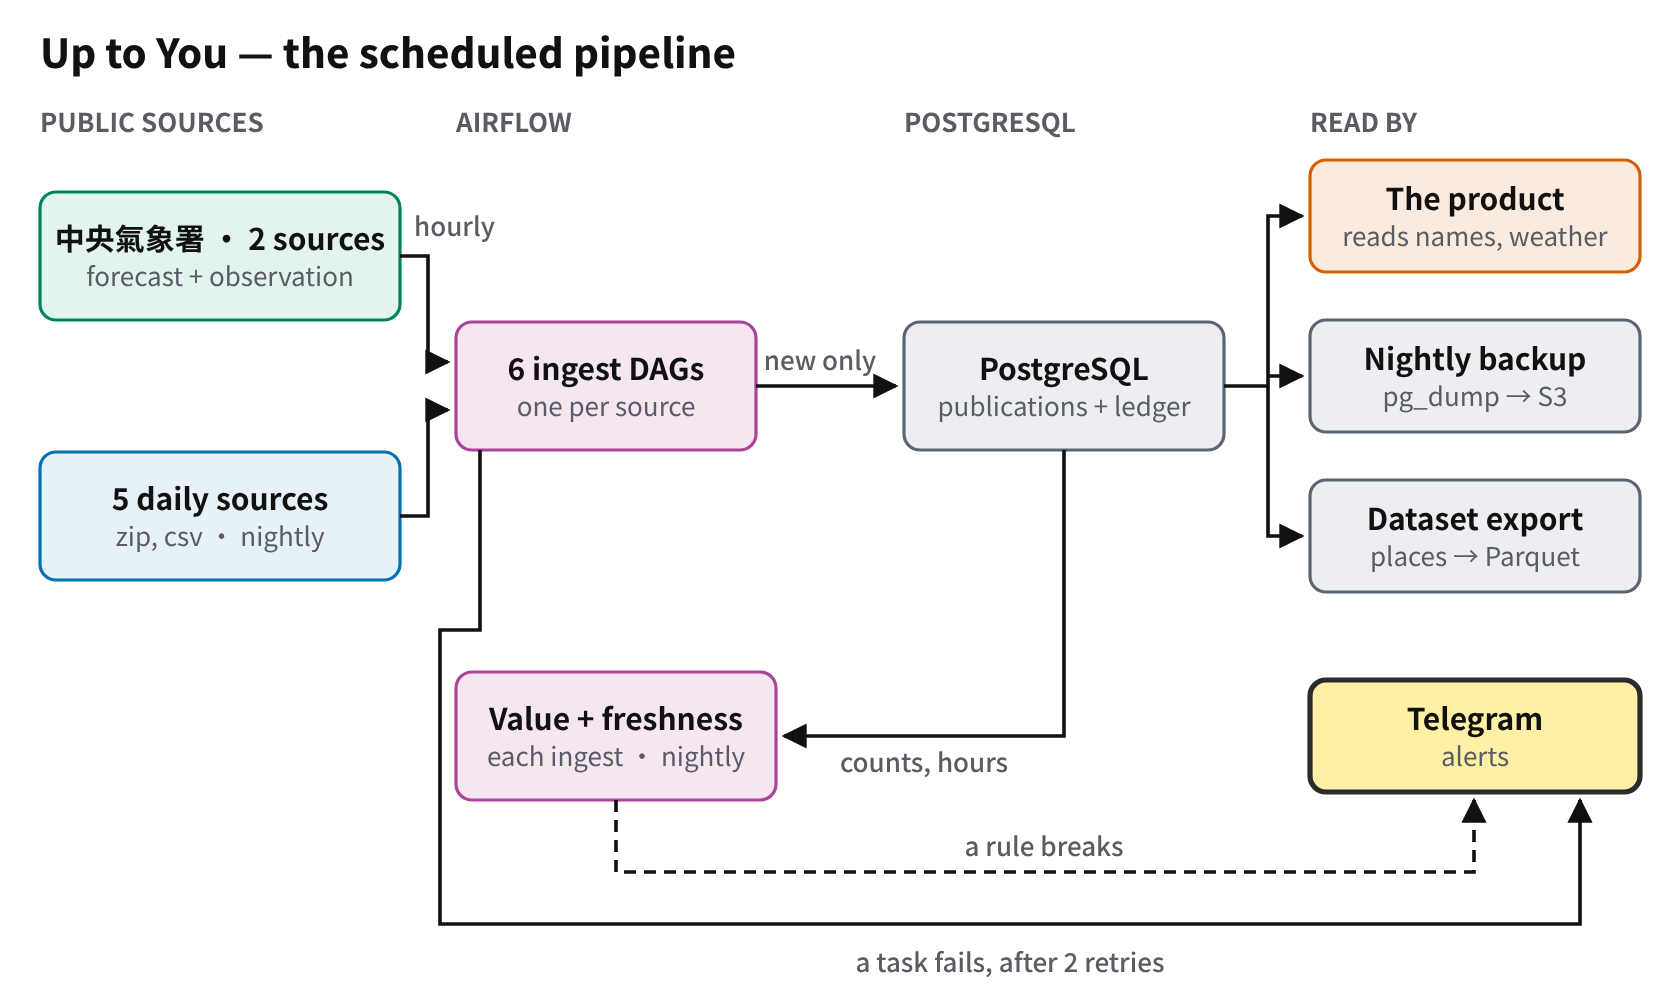
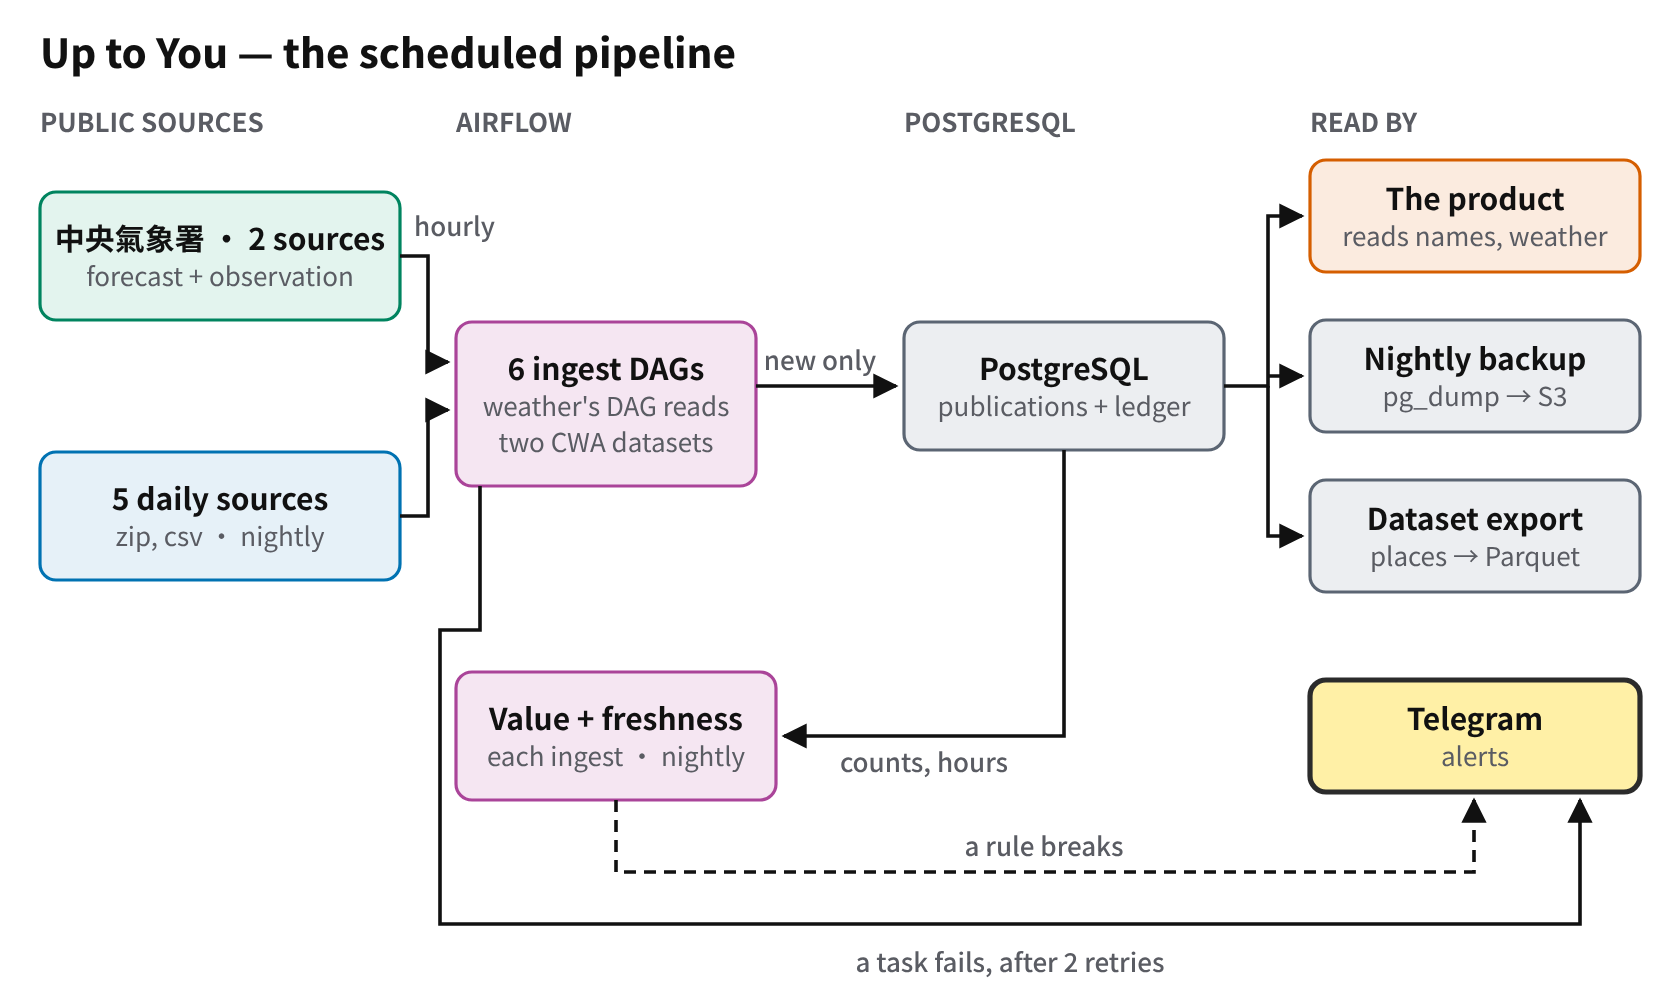
diagrams: the ingest box says the weather DAG reads two CWA datasets, so six DAGs and seven sources agree

Changed region(s): [[0.2476, 0.403, 0.4643, 0.496]]

diff --git a/docs/diagrams/draw.py b/docs/diagrams/draw.py
@@ -105,7 +105,14 @@ def box(x, y, w, h, label, caption=None, key=None):
     out = [f'<rect x="{x}" y="{y}" width="{w}" height="{h}" rx="{num("radius.box")}" fill="{tint}" '
            f'stroke="{border}" stroke-width="{width}"/>']
     cy = y + h / 2
-    if caption:
+    lines = caption.split("\n") if caption else []
+    if len(lines) > 1:
+        # A caption of several lines: the block is centred, one 18-unit step per line.
+        top = cy - 3 - 9 * (len(lines) - 1)
+        out.append(text(x + w / 2, top, label, TITLE, W_TITLE))
+        for i, ln in enumerate(lines):
+            out.append(text(x + w / 2, top + 18 * (i + 1), ln, BODY, W_BODY, MUTED))
+    elif caption:
         out.append(text(x + w / 2, cy - 3, label, TITLE, W_TITLE))
         out.append(text(x + w / 2, cy + 15, caption, BODY, W_BODY, MUTED))
     else:
@@ -156,7 +163,7 @@ def etl_flow():
         q.append(text(x, 66, label, BODY, W_TITLE, MUTED, "start"))
     q.append(box(20, 96, 180, 64, "中央氣象署 · 2 sources", "forecast + observation", "weather"))
     q.append(box(20, 226, 180, 64, "5 daily sources", "zip, csv · nightly", "public"))
-    q.append(box(228, 161, 150, 64, "6 ingest DAGs", "one per source", "pipeline"))
+    q.append(box(228, 161, 150, 82, "6 ingest DAGs", "weather's DAG reads\ntwo CWA datasets", "pipeline"))
     q.append(box(452, 161, 160, 64, "PostgreSQL", "publications + ledger", "stored"))
     q.append(box(228, 336, 160, 64, "Value + freshness", "each ingest · nightly", "pipeline"))
     q.append(box(655, 80, 165, 56, "The product", "reads names, weather", "product"))
@@ -172,7 +179,7 @@ def etl_flow():
     q.append(line([(532, 225), (532, 368), (392, 368)], "counts, hours", (462, 386)))
     q.append(line([(308, 400), (308, 436), (737, 436), (737, 400)], "a rule breaks", (522, 428), dashed=True))
     # Any task that fails after its 2 retries alerts too (the on_failure_callback in every ingest DAG).
-    q.append(line([(240, 225), (240, 315), (220, 315), (220, 462), (790, 462), (790, 400)], "a task fails, after 2 retries",
+    q.append(line([(240, 243), (240, 315), (220, 315), (220, 462), (790, 462), (790, 400)], "a task fails, after 2 retries",
                   (505, 486)))
     q.append("</svg>")
     return "\n".join(q)
